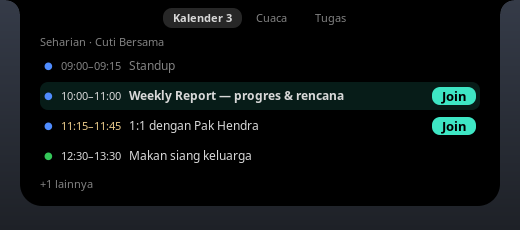
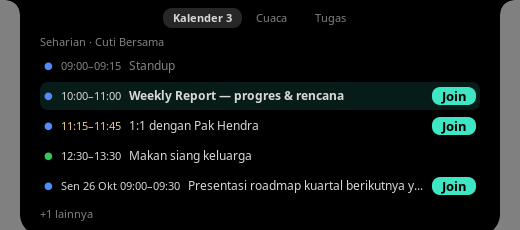
feat(agenda): list meetings through the next 30 days

Changed region(s): [[0.0, 0.0, 1.0, 1.0], [0.8308, 0.7609, 0.9231, 0.8522]]

diff --git a/eww/scripts/agenda_pkg/render.py b/eww/scripts/agenda_pkg/render.py
@@ -3,11 +3,21 @@
 import datetime as dt
 
 SOON = 15 * 60
-DAYS = ("Hari ini", "Besok")
+WEEKDAYS = ("Sen", "Sel", "Rab", "Kam", "Jum", "Sab", "Min")
+MONTHS = ("Jan", "Feb", "Mar", "Apr", "Mei", "Jun", "Jul", "Agu", "Sep", "Okt", "Nov", "Des")
 
 
 def _hhmm(epoch, tz):
     return dt.datetime.fromtimestamp(epoch, tz).strftime("%H:%M")
+
+
+def _day_label(started, today):
+    delta = (started.date() - today).days
+    if delta == 0:
+        return "Hari ini"
+    if delta == 1:
+        return "Besok"
+    return f"{WEEKDAYS[started.weekday()]} {started.day} {MONTHS[started.month - 1]}"
 
 
 def _state(event, now):
@@ -21,23 +31,24 @@ def _state(event, now):
 
 
 def agenda(timed, allday, errors, now, tz, updated, stale):
-    """Rows of today and tomorrow in time order (one per uid and start), today's all-day titles,
+    """Rows from today onward in time order (one per uid and start), today's all-day titles,
     the next not-yet-ended event, and the count of today's events still to come or running."""
     today = dt.datetime.fromtimestamp(now, tz).date()
     rows, seen = [], set()
     for event in sorted(timed, key=lambda e: (e["start"], e["end"], e["title"])):
         key = (event["uid"], event["start"])
-        day = (dt.datetime.fromtimestamp(event["start"], tz).date() - today).days
-        if key in seen or day not in (0, 1):
+        started = dt.datetime.fromtimestamp(event["start"], tz)
+        if key in seen or started.date() < today:
             continue
         seen.add(key)
+        day = _day_label(started, today)
         time = f"{_hhmm(event['start'], tz)}–{_hhmm(event['end'], tz)}"
         rows.append({"id": event["id"], "start": event["start"], "end": event["end"],
                      "title": event["title"], "account": event["account"], "color": event["color"],
-                     "join": event["join"], "day": DAYS[day],
-                     "time": time if day == 0 else f"{DAYS[day]} {time}", "state": _state(event, now)})
+                     "join": event["join"], "day": day,
+                     "time": time if day == "Hari ini" else f"{day} {time}", "state": _state(event, now)})
     ahead = [row for row in rows if row["state"] != "past"]
-    remaining = sum(1 for row in ahead if row["day"] == DAYS[0])
+    remaining = sum(1 for row in ahead if row["day"] == "Hari ini")
     iso = today.isoformat()
     titles = []
     for item in allday:

diff --git a/tests/agenda/test_render.py b/tests/agenda/test_render.py
@@ -1,5 +1,6 @@
 """The agenda document: rows, states, labels, next event and all-day titles."""
 
+import datetime as dt
 import unittest
 
 from .fixtures import TZ, at
@@ -16,14 +17,18 @@ def doc(timed, now, allday=(), errors=()):
 
 
 class RenderTests(unittest.TestCase):
-    def test_rows_cover_today_and_tomorrow_in_time_order(self):
+    def test_rows_cover_today_onwards_in_time_order_with_day_labels(self):
+        bulan_depan = int(dt.datetime(2026, 11, 2, 9, tzinfo=TZ).timestamp())
+        bulan_depan_end = int(dt.datetime(2026, 11, 2, 10, tzinfo=TZ).timestamp())
         result = doc([event("Besok", at(22, 9), at(22, 10)), event("Pagi", at(21, 8), at(21, 9)),
-                      event("Lusa", at(23, 9), at(23, 10)), event("Siang", at(21, 13), at(21, 14))],
+                      event("Lusa", at(23, 9), at(23, 10)), event("Siang", at(21, 13), at(21, 14)),
+                      event("Bulan depan", bulan_depan, bulan_depan_end),
+                      event("Kemarin", at(20, 9), at(20, 10))],
                      at(21, 10))
-        self.assertEqual([row["title"] for row in result["rows"]], ["Pagi", "Siang", "Besok"])
+        self.assertEqual([row["title"] for row in result["rows"]], ["Pagi", "Siang", "Besok", "Lusa", "Bulan depan"])
         self.assertEqual([row["time"] for row in result["rows"]],
-                         ["08:00–09:00", "13:00–14:00", "Besok 09:00–10:00"])
-        self.assertEqual([row["day"] for row in result["rows"]], ["Hari ini", "Hari ini", "Besok"])
+                         ["08:00–09:00", "13:00–14:00", "Besok 09:00–10:00", "Jum 23 Okt 09:00–10:00", "Sen 2 Nov 09:00–10:00"])
+        self.assertEqual([row["day"] for row in result["rows"]], ["Hari ini", "Hari ini", "Besok", "Jum 23 Okt", "Sen 2 Nov"])
 
     def test_states_mark_past_running_soon_and_later(self):
         result = doc([event("a", at(21, 9), at(21, 10)), event("b", at(21, 9, 30), at(21, 10, 30)),

diff --git a/tests/agenda/test_main.py b/tests/agenda/test_main.py
@@ -1,5 +1,6 @@
 """The watch loop and check command over fake feeds."""
 
+import datetime as dt
 import json
 import os
 from pathlib import Path
@@ -19,7 +20,30 @@ def fake_fetch(url):
     return FEED
 
 
+class WindowTests(unittest.TestCase):
+    def test_window_spans_today_and_the_next_cal_days(self):
+        start = dt.datetime(2026, 10, 21, tzinfo=TZ)
+        with mock.patch.dict(os.environ, {}, clear=False):
+            os.environ.pop("ISLAND_CAL_DAYS", None)
+            self.assertEqual(main.window(at(21, 10), TZ),
+                             (start, dt.datetime(2026, 11, 21, tzinfo=TZ)))
+        with mock.patch.dict(os.environ, {"ISLAND_CAL_DAYS": "7"}):
+            self.assertEqual(main.window(at(21, 10), TZ),
+                             (start, dt.datetime(2026, 10, 29, tzinfo=TZ)))
+        with mock.patch.dict(os.environ, {"ISLAND_CAL_DAYS": "x"}):
+            self.assertEqual(main.window(at(21, 10), TZ),
+                             (start, dt.datetime(2026, 11, 21, tzinfo=TZ)))
+
+
 class CollectTests(unittest.TestCase):
+    def test_collect_expands_weekly_series_across_the_default_window(self):
+        with tempfile.TemporaryDirectory() as cache:
+            timed, _, errors, _ = main.collect([OFFICE], cache, at(21, 10), TZ, lambda url: FEED)
+        self.assertEqual(errors, [])
+        dates = sorted({dt.datetime.fromtimestamp(event["start"], TZ).date().isoformat()
+                        for event in timed if event["title"] == "Weekly Report"})
+        self.assertEqual(dates, ["2026-10-22", "2026-10-28", "2026-11-04", "2026-11-11", "2026-11-18"])
+
     def test_collect_merges_accounts_and_reports_failures_by_name(self):
         with tempfile.TemporaryDirectory() as cache:
             timed, allday, errors, stale = main.collect([OFFICE, HOME], cache, at(21, 10), TZ, fake_fetch)

diff --git a/eww/scripts/agenda_pkg/main.py b/eww/scripts/agenda_pkg/main.py
@@ -32,9 +32,13 @@ def paths():
     return runtime / "agenda.json", cache
 
 
+def cal_days():
+    return _env_seconds("ISLAND_CAL_DAYS", 30)
+
+
 def window(now, tz):
     start = dt.datetime.fromtimestamp(now, tz).replace(hour=0, minute=0, second=0, microsecond=0)
-    return start, start + dt.timedelta(days=2)
+    return start, start + dt.timedelta(days=cal_days() + 1)
 
 
 def collect(accounts, cache, now, tz, fetcher=None):
@@ -149,7 +153,7 @@ def check():
             failed = True
             print(feed_errors[0])
         else:
-            print(f"{account.name}: OK, {len(timed)} event berjam, {len(allday)} seharian (hari ini & besok)")
+            print(f"{account.name}: OK, {len(timed)} event berjam, {len(allday)} seharian ({cal_days()} hari ke depan)")
     return 1 if failed else 0
 
 
